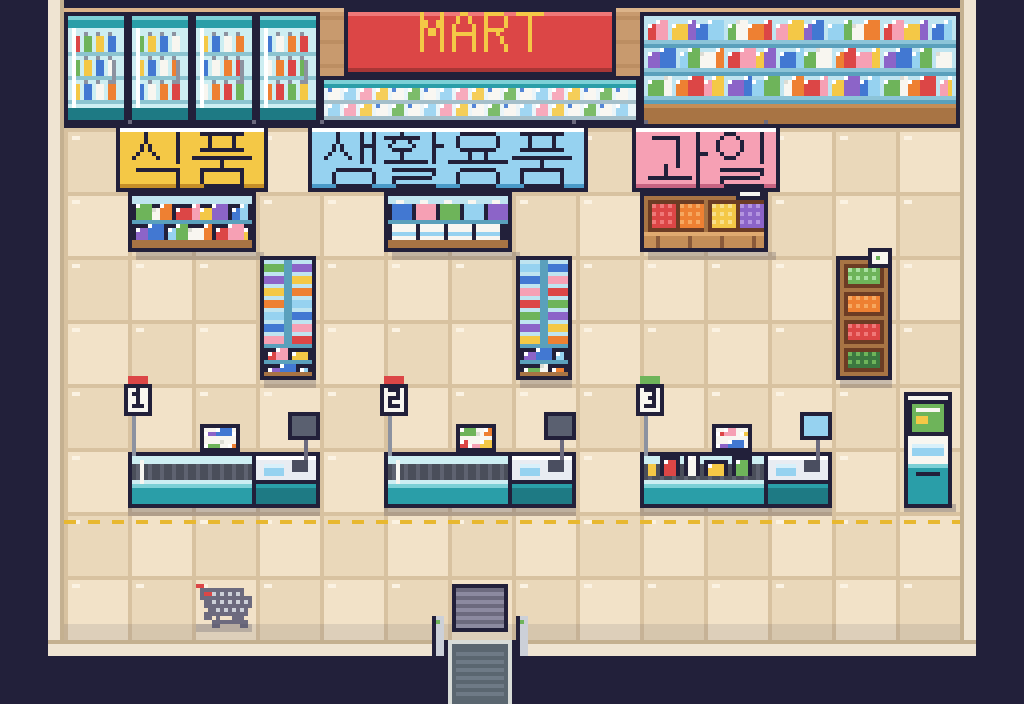
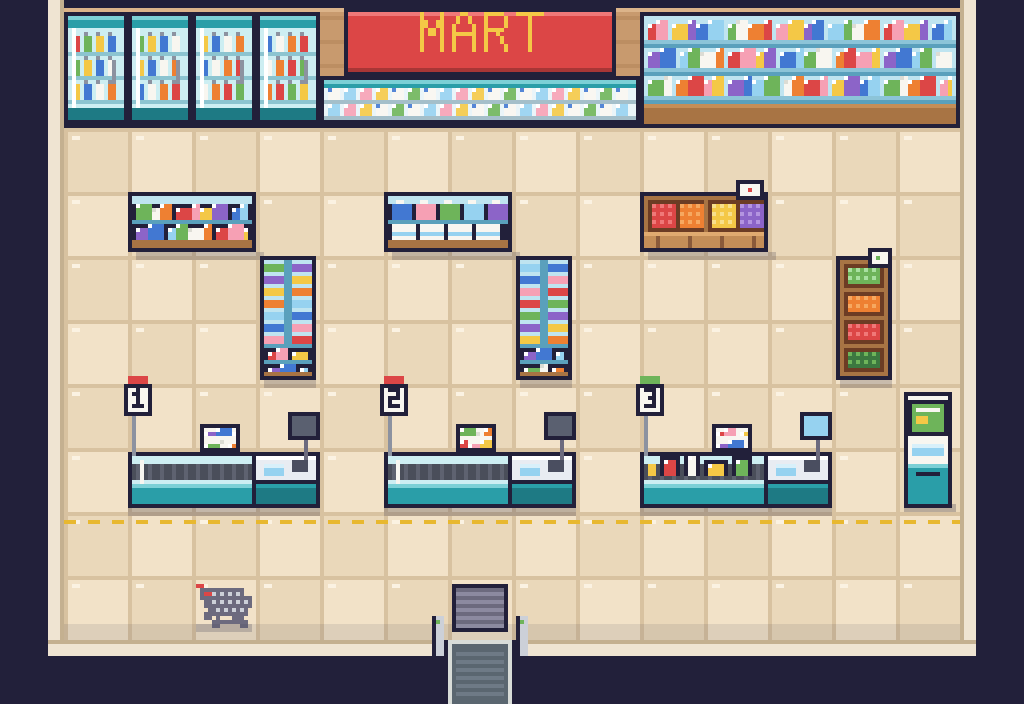
대형마트 초안: 구역 글자 표지판 제거
Claude-Session: https://claude.ai/code/session_01R4Xdu4DQAYWSL2VUyUVs3v

Changed region(s): [[0.0938, 0.1562, 0.7812, 0.2812]]

diff --git a/tools/room_art.py b/tools/room_art.py
@@ -1534,7 +1534,7 @@ def hangul_size(s):
 # ======================================================================
 # [초안] 대형마트 256x176 (16x11칸) — 칸 지도는 아직 게임에 없음 (제안안은 docs/room-drafts/README.md)
 #   0~1 벽: 음료 냉장고(1~4) / MART 간판 + 유제품 냉장 진열대(5~9) / 벽 선반(10~14)
-#   3 식품(2~3), 생활용품(6~7), 과일(10~11) 진열대 — 2줄에 매달린 표지판
+#   3 식품(2~3), 생활용품(6~7), 과일(10~11) 진열대 (글자 표지판 없음)
 #   4~5 세로 진열대 (4칸, 8칸), 채소 매대 (13칸)
 #   7 벨트 계산대 3곳: 1번(2~4), 2번(6~8), 3번(10~12, 점원 11,6)
 #   키오스크(14,7) 손님 자리(11,8) 카트(3,9) 문(7,9)
@@ -1642,20 +1642,6 @@ def mart():
     for i2 in range(x + 4, x + 30, 8):
         cv.vline(i2, y + 11, 3, '#8a5a3a')
     cv.box(x + 24, y - 3, 7, 5, '#f8f6f0'); cv.p(x + 27, y - 1, '#dc4646')   # 가격표
-
-    # 매달린 구역 표지판 (2줄)
-    def sign(cx, label, fill, edge):
-        w, h = hangul_size(label)
-        sw = w + 8
-        x0 = cx - sw // 2
-        cv.vline(x0 + 3, 30, 2, '#6c6a7e'); cv.vline(x0 + sw - 4, 30, 2, '#6c6a7e')
-        cv.rect(x0, 31, sw, 17, K)
-        cv.rect(x0 + 1, 32, sw - 2, 15, fill)
-        cv.hline(x0 + 1, 32, sw - 2, '#ffffff'); cv.hline(x0 + 1, 46, sw - 2, edge)
-        hangul(cv, x0 + 4, 33, label, K)
-    sign(48, '식품', '#f4c846', '#c48e28')
-    sign(112, '생활용품', '#96d2f0', '#4a9ac8')
-    sign(176, '과일', '#f6a0b4', '#c86482')
 
     # ---------- 세로 진열대 (4칸, 8칸 / 4~5줄) ----------
     def vshelf(tx, seed):

diff --git a/docs/room-drafts/README.md b/docs/room-drafts/README.md
@@ -15,7 +15,7 @@
 ```
  0 xxxxxxxxxxxxxxxx
  1 xSSSSSSSSSSSSSSx   벽: 음료 냉장고 · MART 간판과 유제품 진열대 · 벽 선반
- 2 xmmmmmmmmmmmmmmx   구역 표지판은 머리 위에 매달려 있어 걸을 수 있음
+ 2 xmmmmmmmmmmmmmmx
  3 xmGGmmGGmmPPmmmx   G 진열대(식품 2~3, 생활용품 6~7)  P 과일 매대(10~11)
  4 xmmmVmmmVmmmmCmx   V 세로 진열대(4, 8)  C 채소 매대(13)
  5 xmmmVmmmVmmmmCmx
